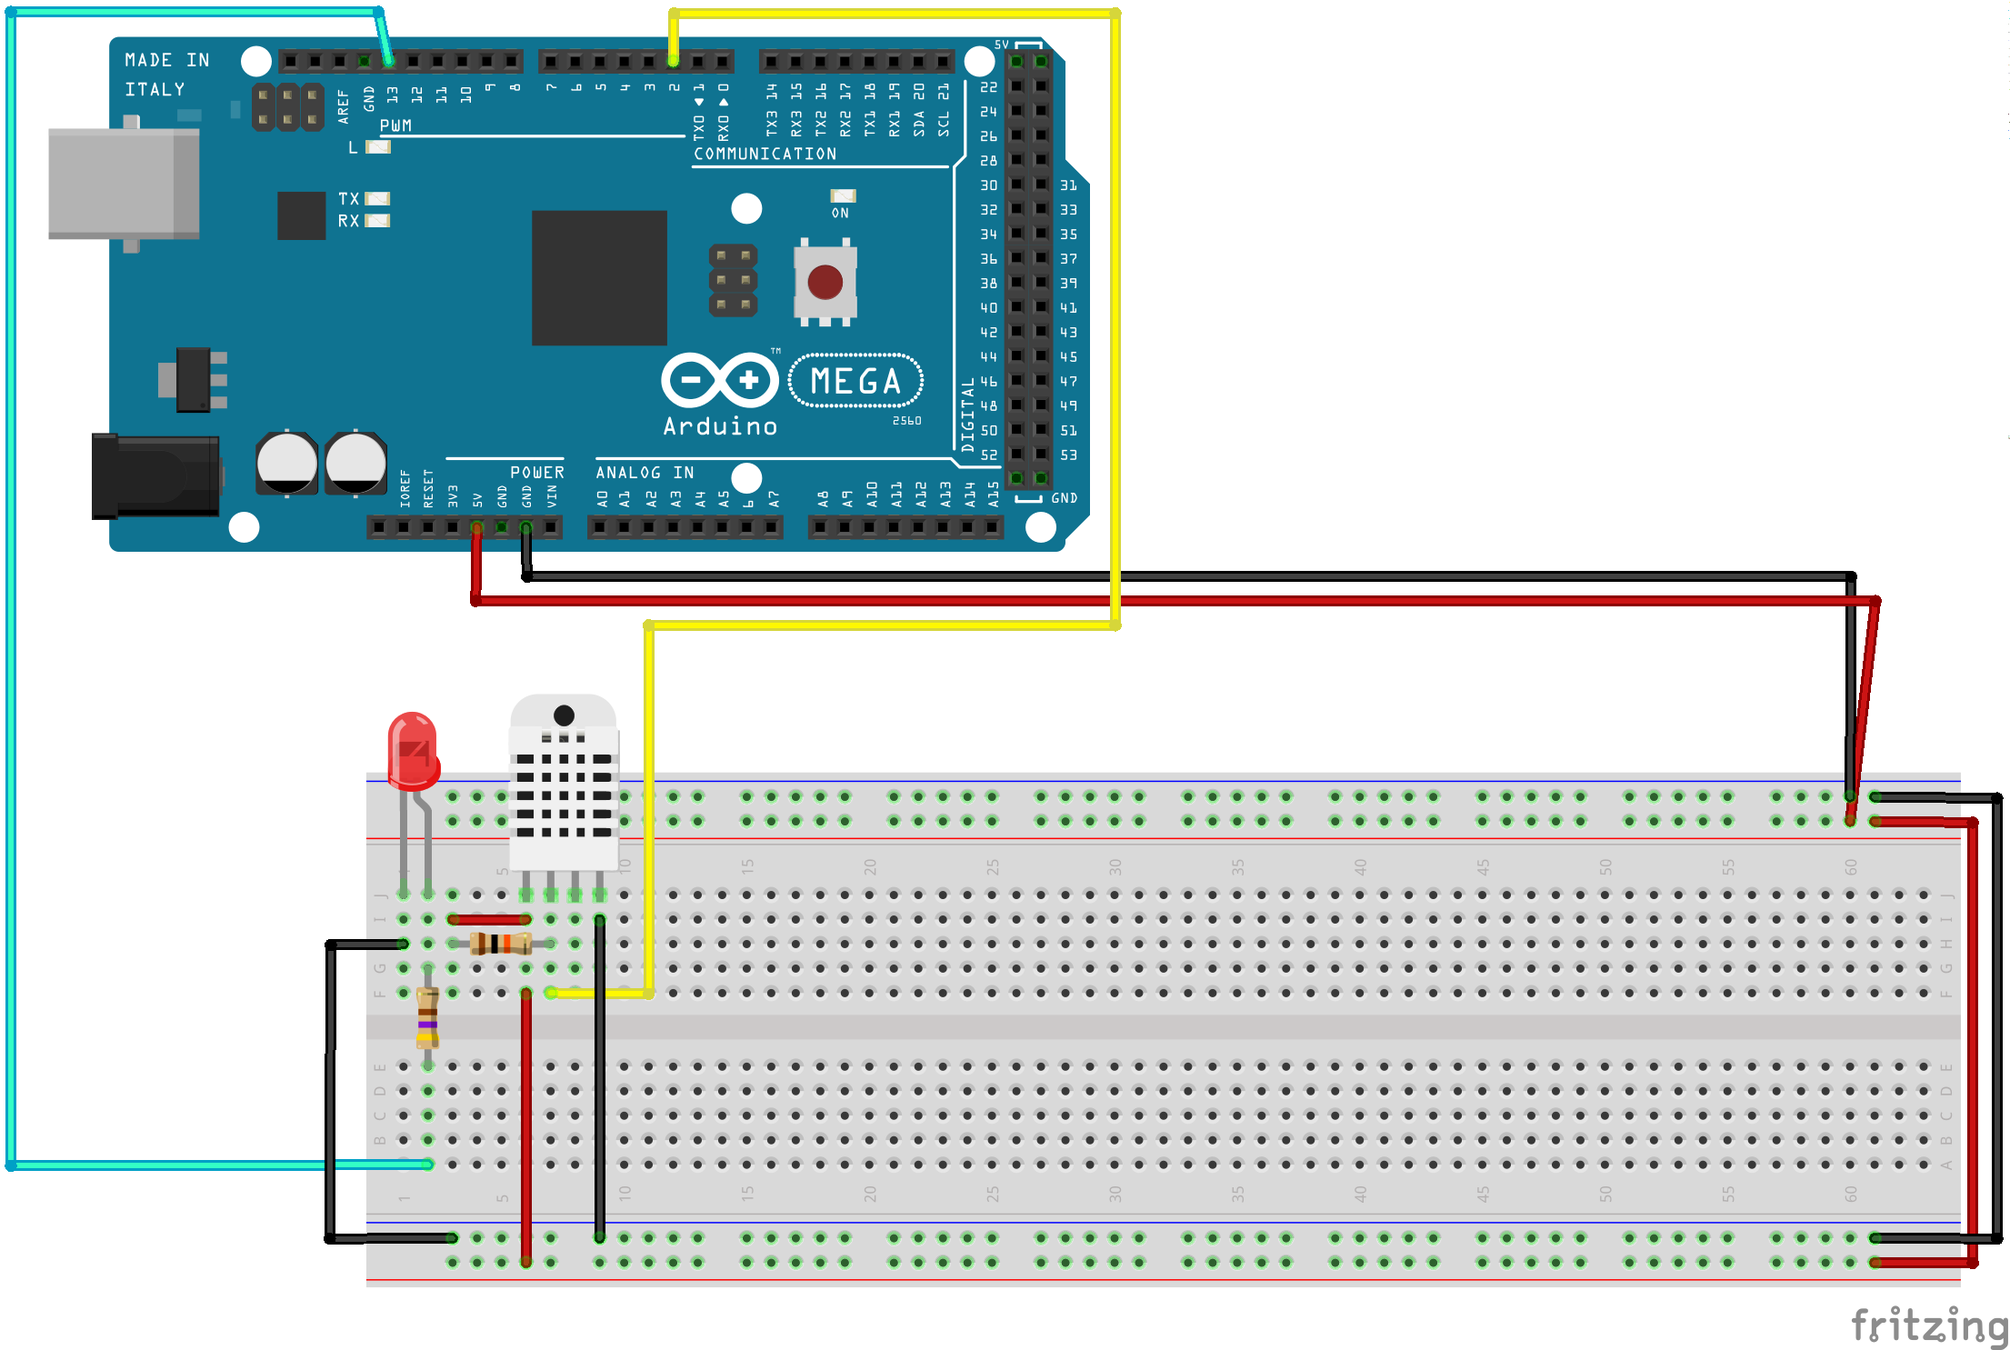
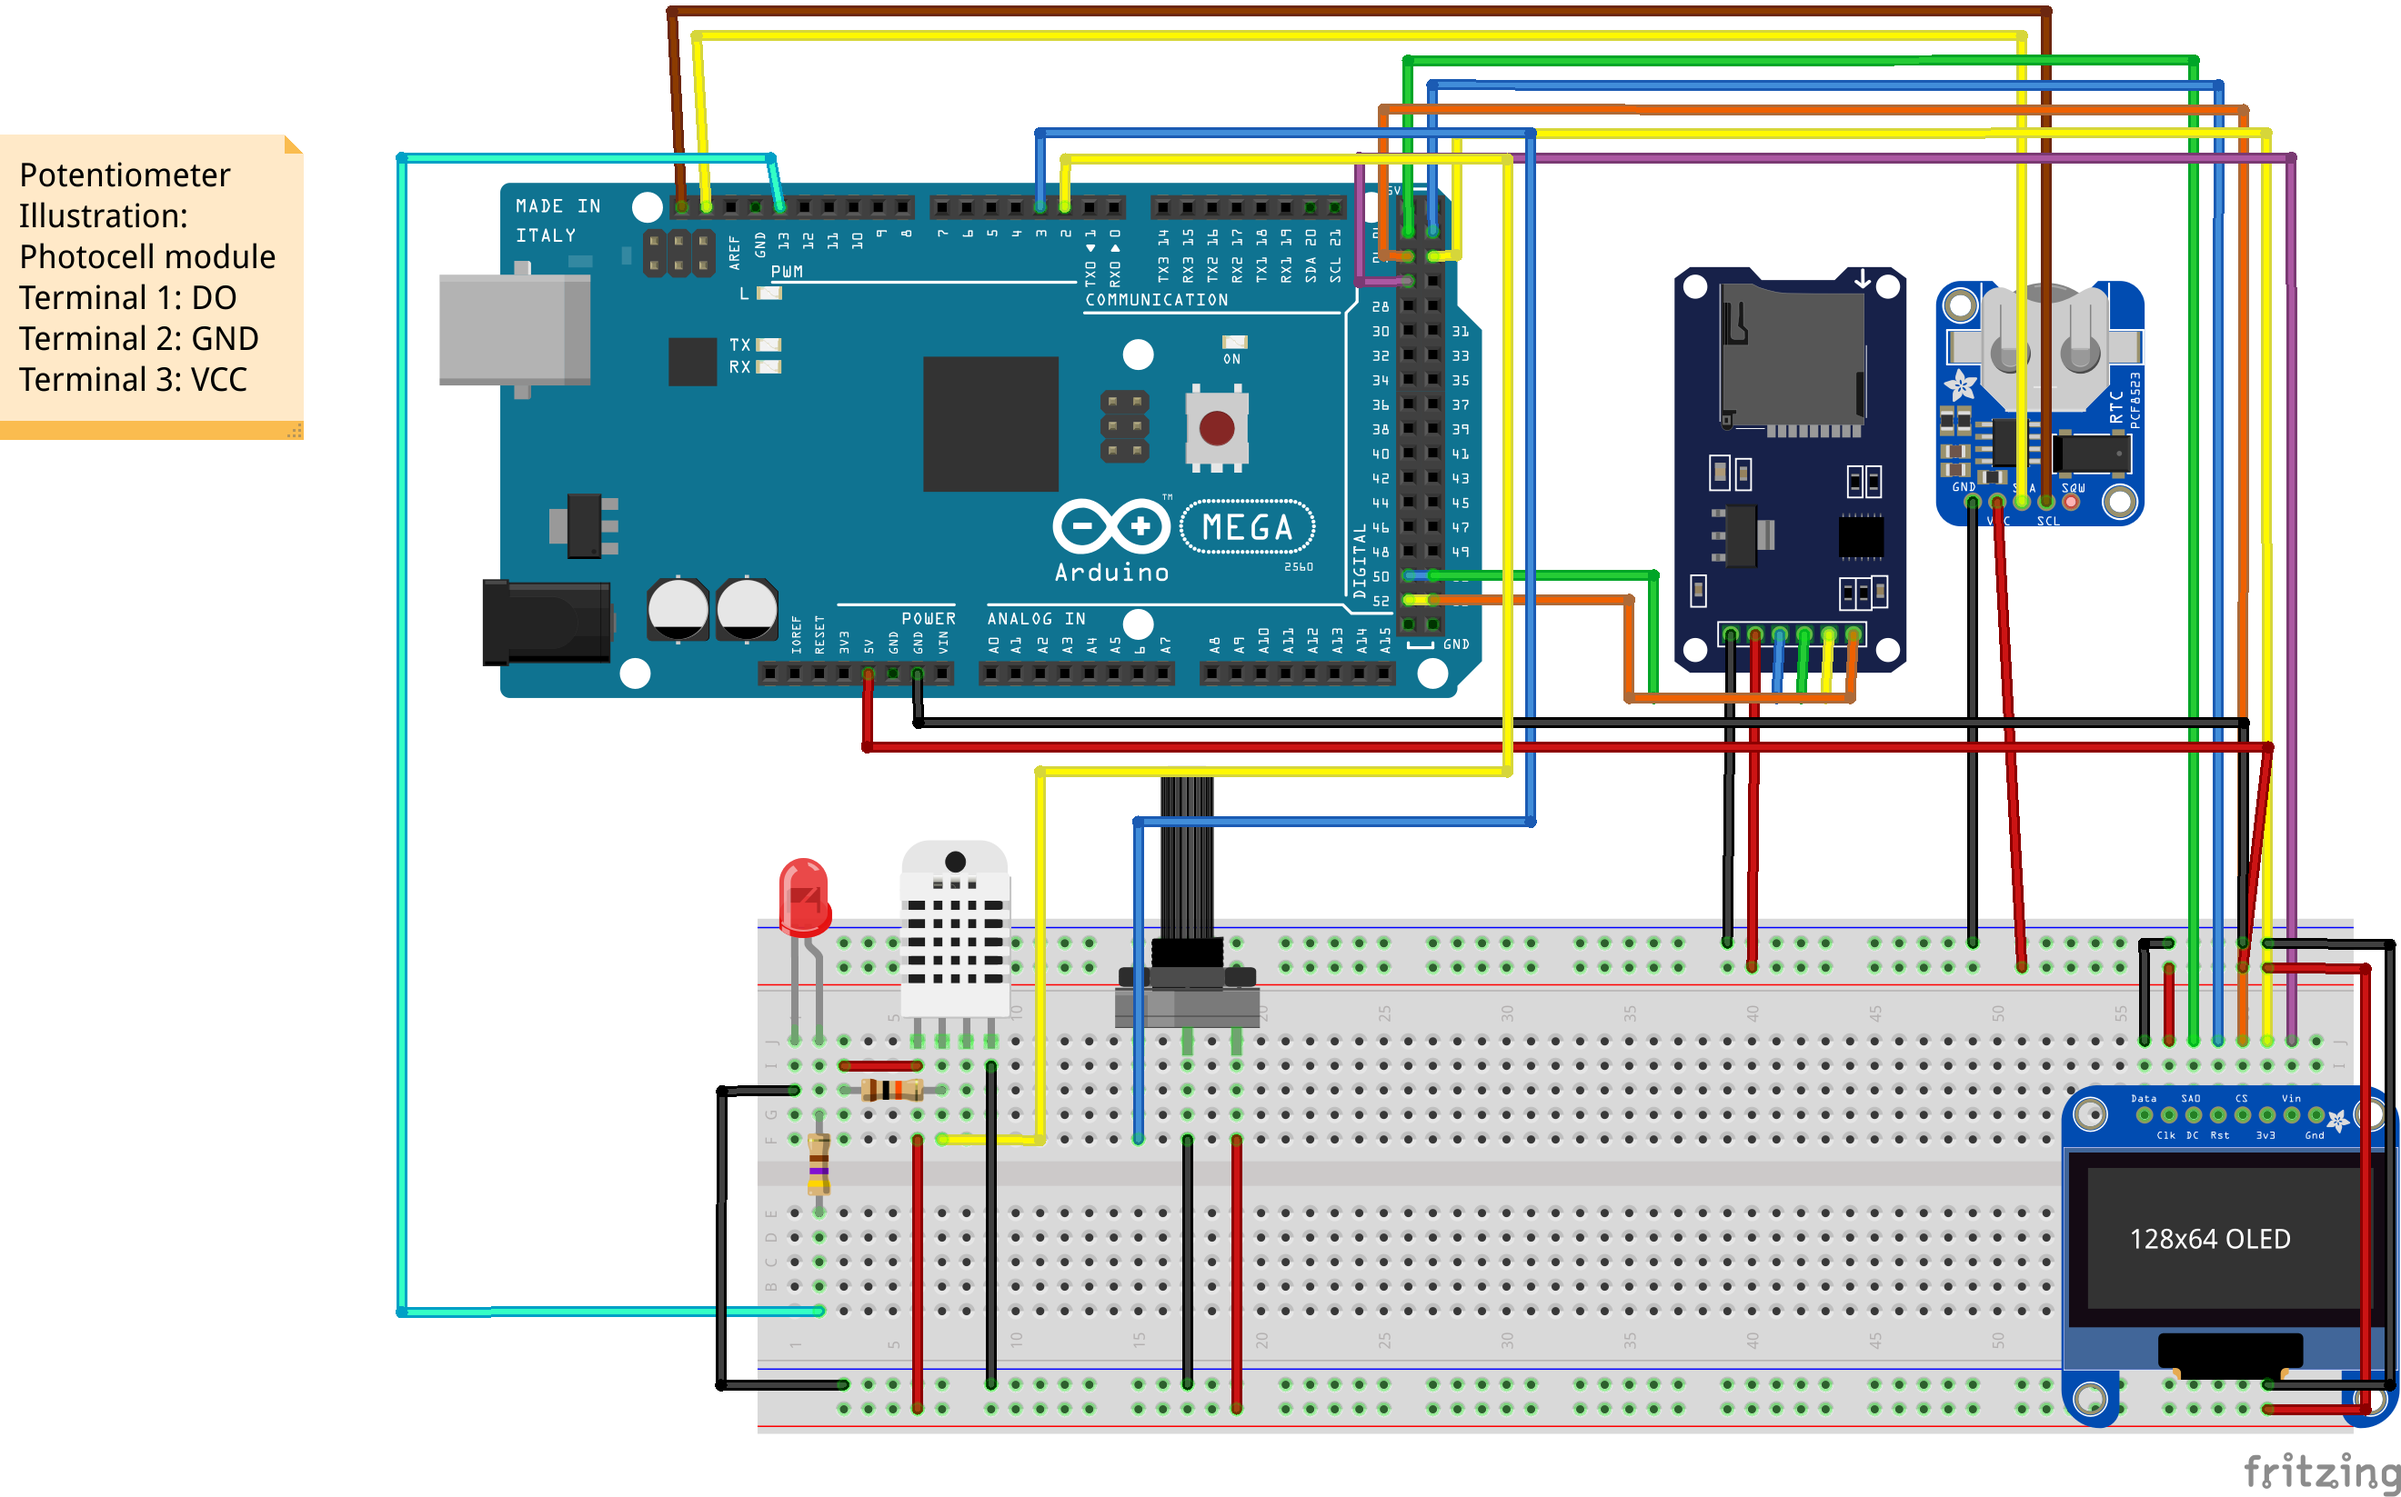
feat(device): add real time clock
resolves open-aquarium/open-aquarium#28

diff --git a/README.md b/README.md
@@ -44,6 +44,12 @@
 - https://lastminuteengineers.com/arduino-micro-sd-card-module-tutorial/
 - https://blogmasterwalkershop.com.br/arduino/como-usar-com-arduino-modulo-leitor-de-micro-sd-card
 
+# Real Time Clock (RTC)
+
+- https://create.arduino.cc/projecthub/MisterBotBreak/how-to-use-a-real-time-clock-module-ds3231-bc90fe
+- https://learn.adafruit.com/adafruit-ds3231-precision-rtc-breakout/arduino-usage
+- https://learn.adafruit.com/adafruit-pcf8523-real-time-clock/rtc-with-arduino
+
 ## Release Workflow
 
 Recommended workflow
